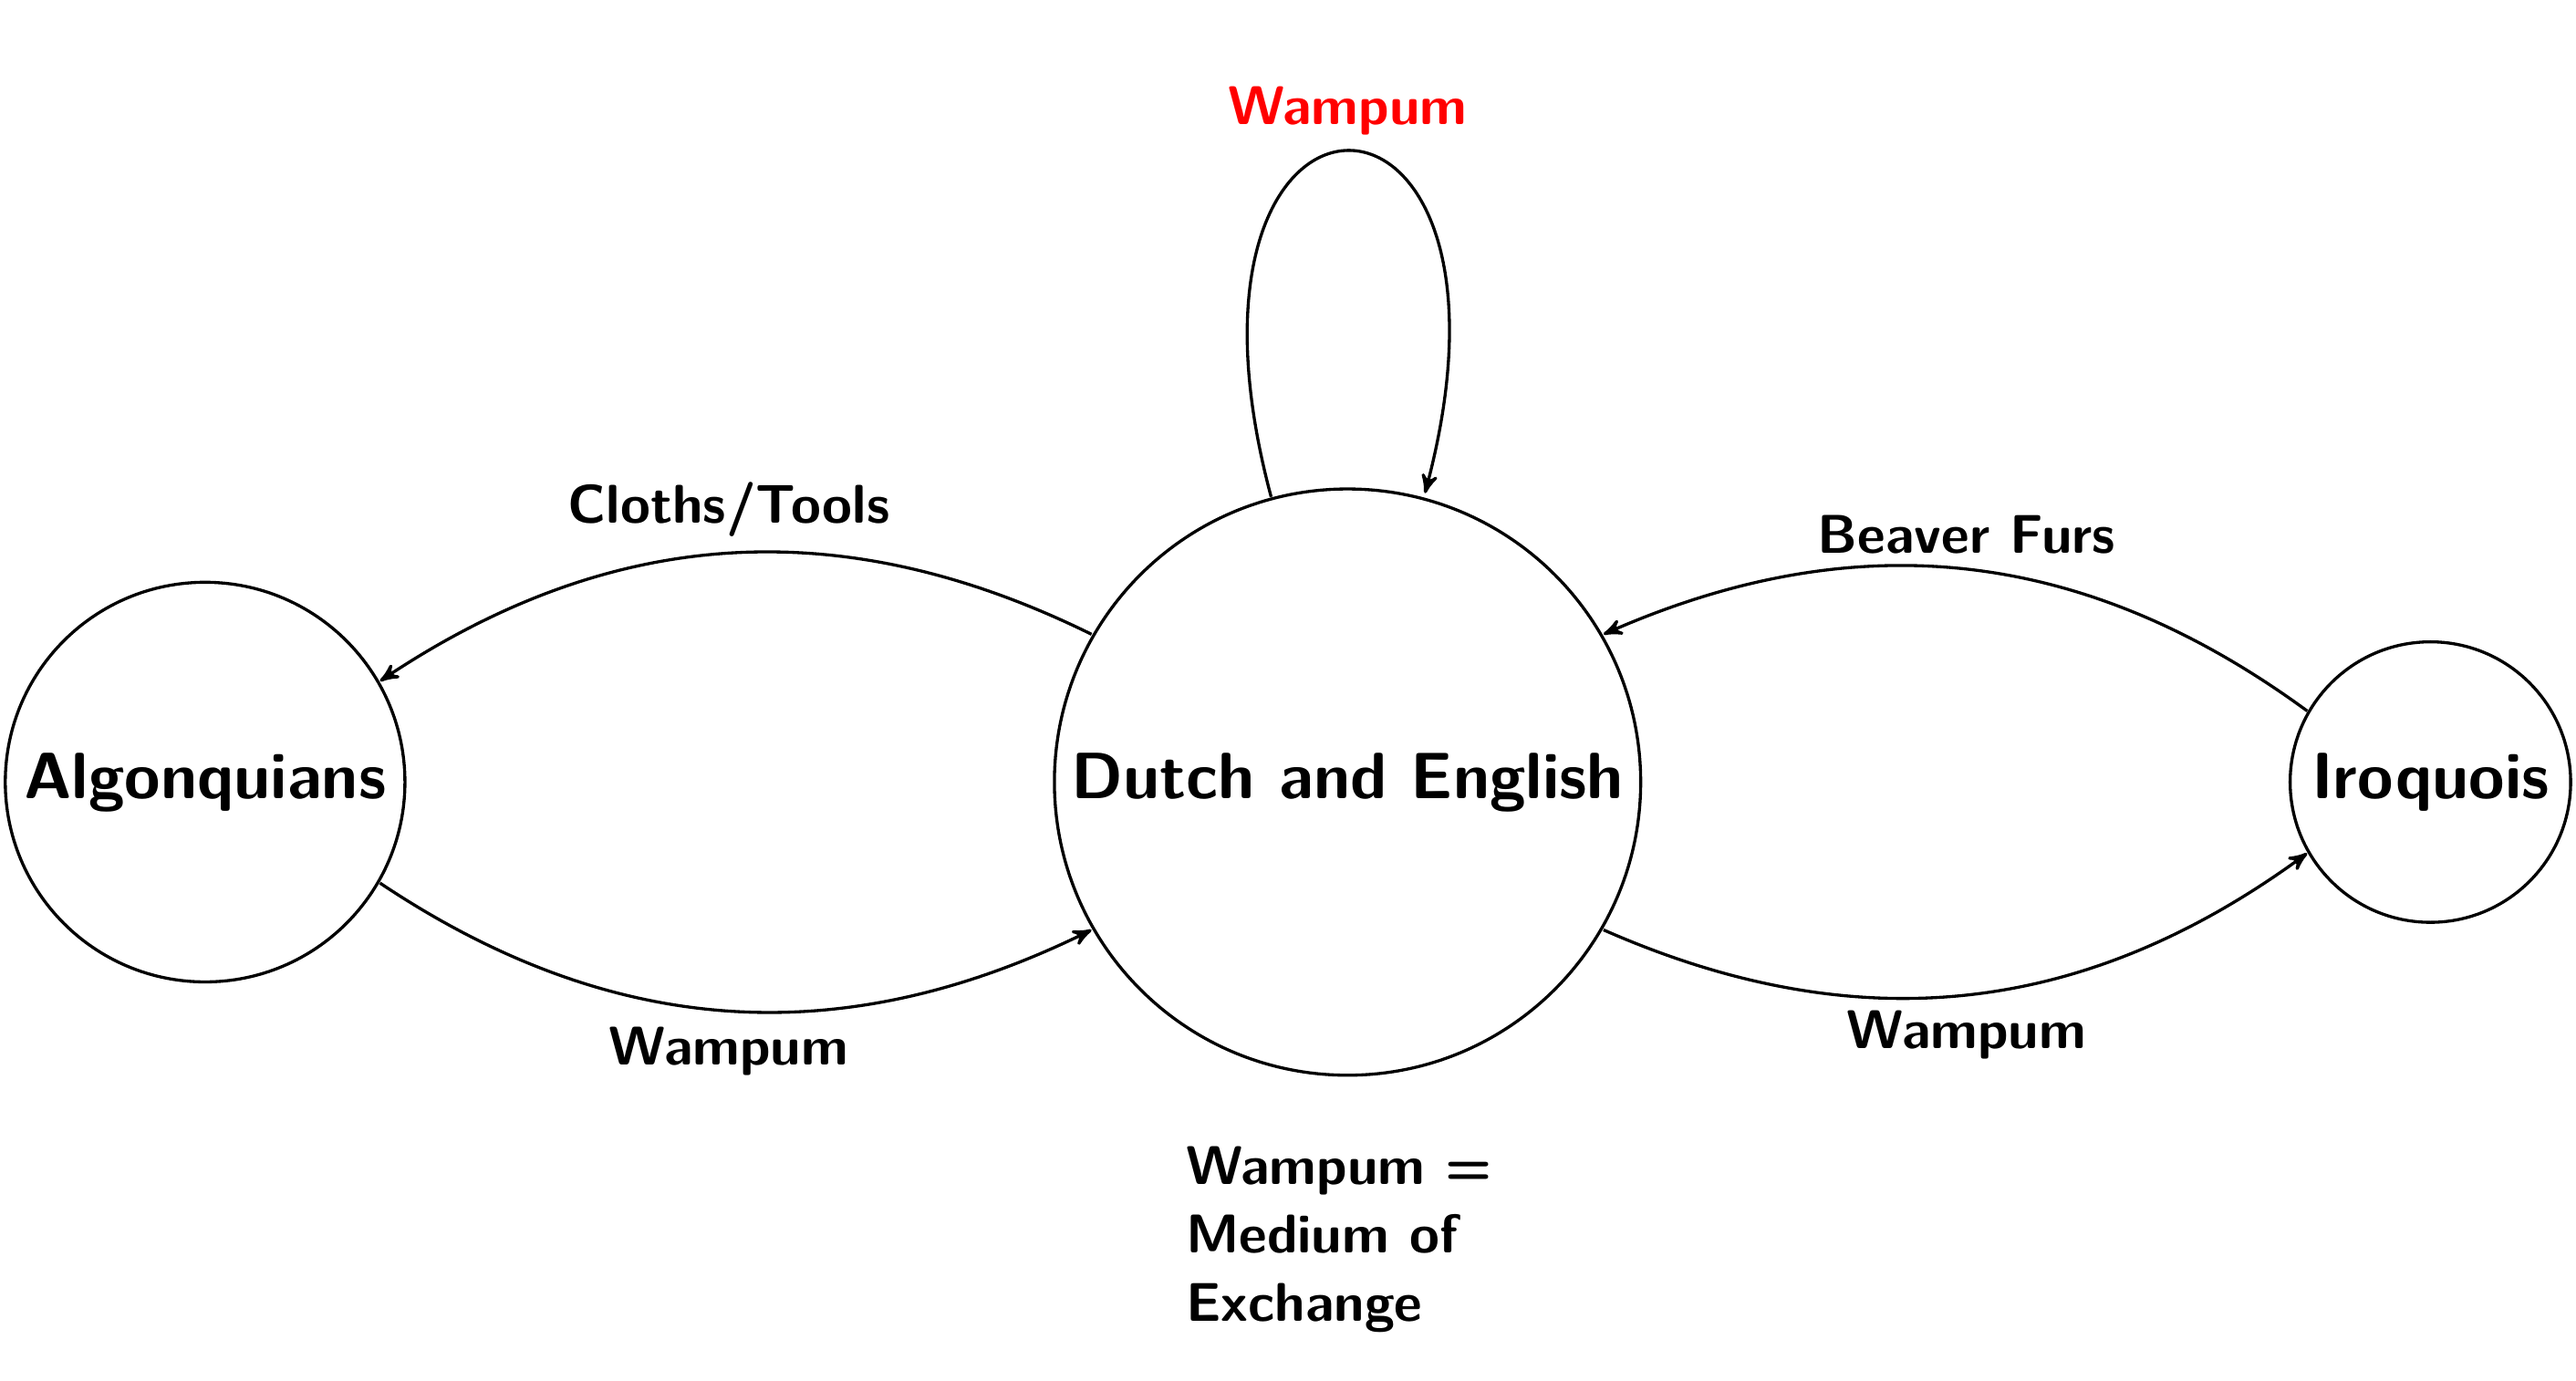
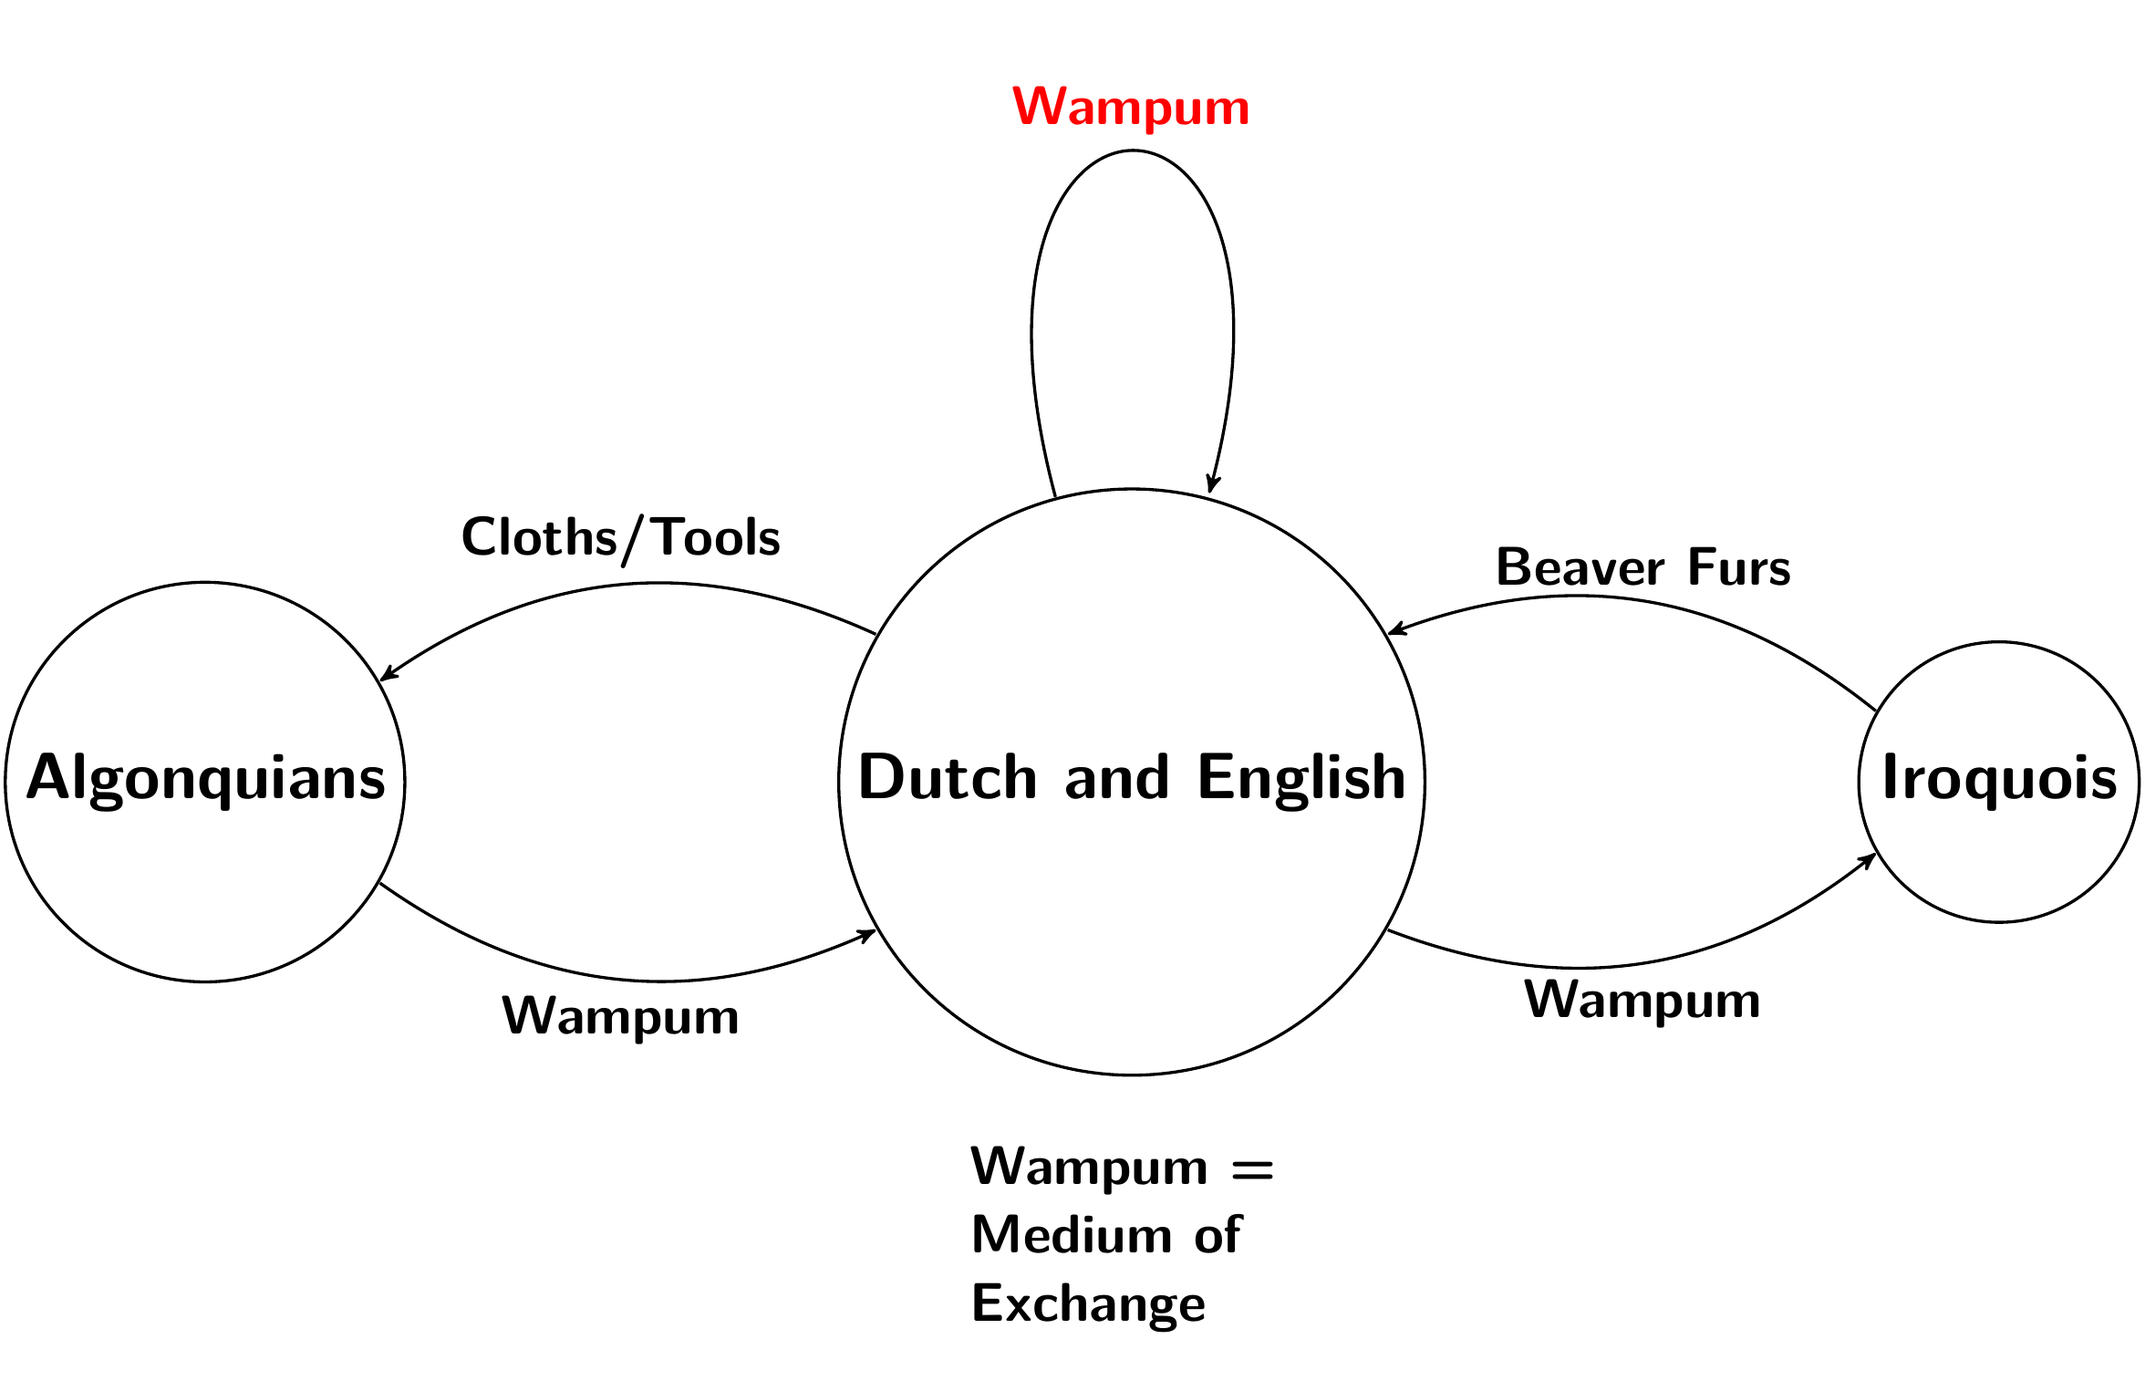
m e

diff --git a/docs/slides/wampum2019.html b/docs/slides/wampum2019.html
@@ -1,7 +1,7 @@
 <!DOCTYPE html>
 <html>
   <head>
-    <title>Wampum Beads as Money and Not Money:  Why Colonists and the Iroquois used the Shells</title>
+    <title>Wampum as Money and Not Money:  Why Colonists and the Iroquois used Shell Beads</title>
     <meta charset="utf-8">
     <meta name="author" content="Brian C. Albrecht  University of Minnesota     Andrew T. Young  Texas Tech University" />
     <link href="wampum2019_files/font-awesome-5.3.1/css/fontawesome-all.min.css" rel="stylesheet" />
@@ -11,11 +11,14 @@
     <textarea id="source">
 class: left, middle, inverse, title-slide
 
-# Wampum Beads as Money and Not Money: <br>Why Colonists and the Iroquois used the Shells<br><br>
+# Wampum as Money and Not Money: <br>Why Colonists and the Iroquois used Shell Beads<br><br>
 ### Brian C. Albrecht <span style="font-size: 50%;"> University of Minnesota</span> <br> <br> Andrew T. Young <span style="font-size: 50%;"> Texas Tech University</span><br><br>
 ### July 31, 2019<br><br> <i class="fas  fa-link "></i> Paper <a href="https://bit.ly/bca-wampum">bit.ly/bca-wampum</a> <br><i class="fas  fa-link "></i> Slides <a href="https://bit.ly/bca-SMP">bit.ly/bca-SMP</a> <br> <i class="fab  fa-twitter "></i> <a href="https://twitter.com/briancalbrecht">briancalbrecht</a>
 
 ---
+
+
+
 
 Wampum was Colonial Money
 ====================================
@@ -24,7 +27,7 @@ Wampum was Colonial Money
 
 - Today: money = medium of exchange
 
-- E.g., Friedman (1951), Samuelson (1951)
+- E.g., Friedman (1951); Samuelson (1951) 
 
 - Shells were broken into beads and strung into belts
 
@@ -42,10 +45,10 @@ Wampum was **NOT** Iroquois Money
 
 .left-column[
 - Contrary to Friedman, Samuelson, etc, the Iroquois **did not use wampum as a money**
-  - Tooker (1978, 423), Snyderman (1954, 470), Woodward (1878, 20)
+  - Archeologists: Tooker (1978); Snyderman (1954)
 
 - Yet wampum was extremely valuable for the Iroquois. Why?
-  - “the magnet which drew the beaver out”- Weeden (1884, 15)
+  - “the magnet which drew the beaver out”- Weeden (1884)
     
 - Today's talk lays out and partially resolves some puzzles about wampum as money and non-money
 ]
@@ -57,9 +60,9 @@ Wampum was **NOT** Iroquois Money
 Two Themes of Today's Talk
 ====================================
 
-### Wampum as Money (Expanded for Today)
+### Monetary Case Study (Expanded for Today)
 
-- Case study of a non-monetary society being forced into contact with monetary society
+- Non-monetary society forced into contact with monetary society
 
 - Certain people can use a good as money even if others do not
 
@@ -80,29 +83,90 @@ class: center, middle
 # Wampum as Colonial Money
 
 ---
-Colonial Money
+New Netherlands Facts
 ========================
-- Within colonies, especially New Netherlands, wampum 
+
+- 
+
+- Pure fiat money, no "instrinic value"
+
+- 
 
 ---
-Reasons for using as Money
+Why Wampum?
+=======================
+Standard characteristics of a good medium of exchange
+
+- Durable
+
+- Divisible
+
+- Recognizable
+
+- Easy to transport
+
+
+
+---
+Medium of Exchange in Fur Trade
 ========================
 
+- Wampum was produce by Algonquian tribe, consumed by Iroquois
+
+- No evidence of trade between Algonquians and Iroquois, although they were in contact
+  - Zero coincidence of wants
+
+- The arrival of Europeans
+  - Created single coincidence of wants
+  
+- Wampum overcame the issue of single coincidence of wants
+
+- Near perfect example of Menger, Kiyotaki and Wright (1989)
+
+---
+&lt;img src="https://briancalbrecht.github.io/docs/slides/images/wampum/tikz_A.png" width="100%" align="middle" /&gt;
 
 
+---
+&lt;img src="https://briancalbrecht.github.io/docs/slides/images/wampum/tikz_B.png" width="100%" align="middle" /&gt;
+
+
+---
+Atypical Money
+===========================
+
+- Only Europeans used as a general medium of exchange
+  1. International trade
+  2. Domestic
+
+- Never became money for Iroquois (unlike Barbarians with Romans)
+
+- From the Iroquois, it was a barter-type exchange: `$$\text{Furs} \Longleftrightarrow \text{Wampum}$$`
+
+- “white man fooled himself into believing wampum was Indian money”- Snyderman (1954)
+
+- Monetary story could stop there, as monetary oddity
+
+---
+Value to Iroquois
+=========================
+
+- Whole trade system relied on the Iroquois valuing wampum extremely highly
+
+- “the most precious article they possess” -Tremblay (2006)
+
+- "high value given wampum by the Iroquois that created wealth for the Europeans and colonials, that underlay colonial ‘confidence’ in this unusual shell bead coinage, and that contributed finally to the success of colonial expansion." - Ceci (1982)
+
+- But why?
 
 ---
 class: center, middle
 
-.left[What was Wampum?]
+.left[What was Wampum to Iroquois?]
 =================================
 
 
 &lt;iframe width="1000" height="500" src="https://www.youtube.com/embed/S6dLNz8NZ8A?start=16" frameborder="0" allow="accelerometer; autoplay; encrypted-media; gyroscope; picture-in-picture" allowfullscreen&gt;&lt;/iframe&gt;
-
-
-
-
 
 ---
 class: center, middle
@@ -128,7 +192,7 @@ Wampum's Early History
 
 
 ---
-Roles for the Iroqouis
+Institutional Roles for the Iroqouis
 ====================================
 
 ### 1. Memory: the pre-literate society could “write” down their obligations
@@ -157,12 +221,7 @@ class: center, middle
 
 # The Early Colonial Period
 
----
-&lt;img src="https://briancalbrecht.github.io/docs/slides/images/wampum/tikz_A.png" width="100%" align="middle" /&gt;
 
-
----
-&lt;img src="https://briancalbrecht.github.io/docs/slides/images/wampum/tikz_B.png" width="100%" align="middle" /&gt;
 
 ---
 Screening Role
@@ -261,6 +320,46 @@ class: center, middle
 ###<i class="fas  fa-link "></i> Paper: [bit.ly/Albrecht-wampum](https://bit.ly/Albrecht-wampum) &lt;br&gt;
 ###<i class="fas  fa-link "></i> Slides: [bit.ly/Albrecht-SMP](https://bit.ly/Albrecht-SMP) &lt;br&gt;
 ###<i class="fab  fa-twitter "></i> [@briancalbrecht](https://twitter.com/briancalbrecht)
+
+---
+
+# References
+
+Ceci, L. (1982). "The Value of Wampum among the New York Iroquois:
+A Case Study in Artifact Analysis". In: _Journal of
+Anthropological Research_ 38.1, pp. 97-107. DOI:
+[10.2307/3629950](https://doi.org/10.2307%2F3629950). URL:
+[http://www.jstor.org/stable/3629950](http://www.jstor.org/stable/3629950).
+
+Friedman, M. (1951). "Commodity-Reserve Currency". In: _Journal of
+Political Economy_ 59.3, pp. 203-232. ISSN: 00223808, 1537534X.
+URL:
+[http://www.jstor.org/stable/1826435](http://www.jstor.org/stable/1826435).
+
+Kiyotaki, N. and R. Wright (1989). "On Money as a Medium of
+Exchange". In: _Journal of Political Economy_ 97.4, pp. 927-54.
+
+Samuelson, P. A. (1951). _Economics_. Second Edi. New York:
+Mcgraw-Hill Book Company.
+
+Snyderman, G. S. (1954). "The Functions of Wampum". In:
+_Proceedings of the American Philosophical Society_ 98.6, pp.
+469-494. URL:
+[http://www.jstor.org/stable/3143870](http://www.jstor.org/stable/3143870).
+
+Tooker, E. (1978). "The League of the Iroquois: Its History,
+Politics, and Ritual". In: _Handbook of North American Indians,
+Volume 15 Northeast_. Ed. by B. G. Trigger. Washington, D.C.:
+Smithsonian Institution, pp. 418-441.
+
+Tremblay, R. (2006). _The Saint Lawrence Iroquoians: Corn People_.
+Montréal: Montréal Museum of Archaeology and History. ISBN:
+9782761923309.
+
+Weeden, W. B. (1884). _Indian Money as a Factor in New England
+Civilization_. Ed. by H. B. Adams. Baltimore: Johns Hopkins
+University. URL:
+[https://archive.org/details/indianmoneyasfac00weed](https://archive.org/details/indianmoneyasfac00weed).
 
 ---
 

diff --git a/docs/slides/tikz_charts/wampum.tex b/docs/slides/tikz_charts/wampum.tex
@@ -83,7 +83,7 @@
 
 
 \begin{figure}
-	\begin{tikzpicture}[->,>=stealth',auto,node distance=6cm,
+	\begin{tikzpicture}[->,>=stealth',auto,node distance=4cm,
 	thick,main node/.style={circle,draw,font=\sffamily\Large\bfseries}]
 	
 	\node[main node] (1) {Dutch and English};
@@ -104,7 +104,7 @@
 \end{figure}
 
 \newpage \begin{figure}
-	\begin{tikzpicture}[->,>=stealth',auto,node distance=6cm,
+	\begin{tikzpicture}[->,>=stealth',auto,node distance=4cm,
 	thick,main node/.style={circle,draw,font=\sffamily\Large\bfseries}]
 	
 	\node[main node] (1) {Dutch and English};
